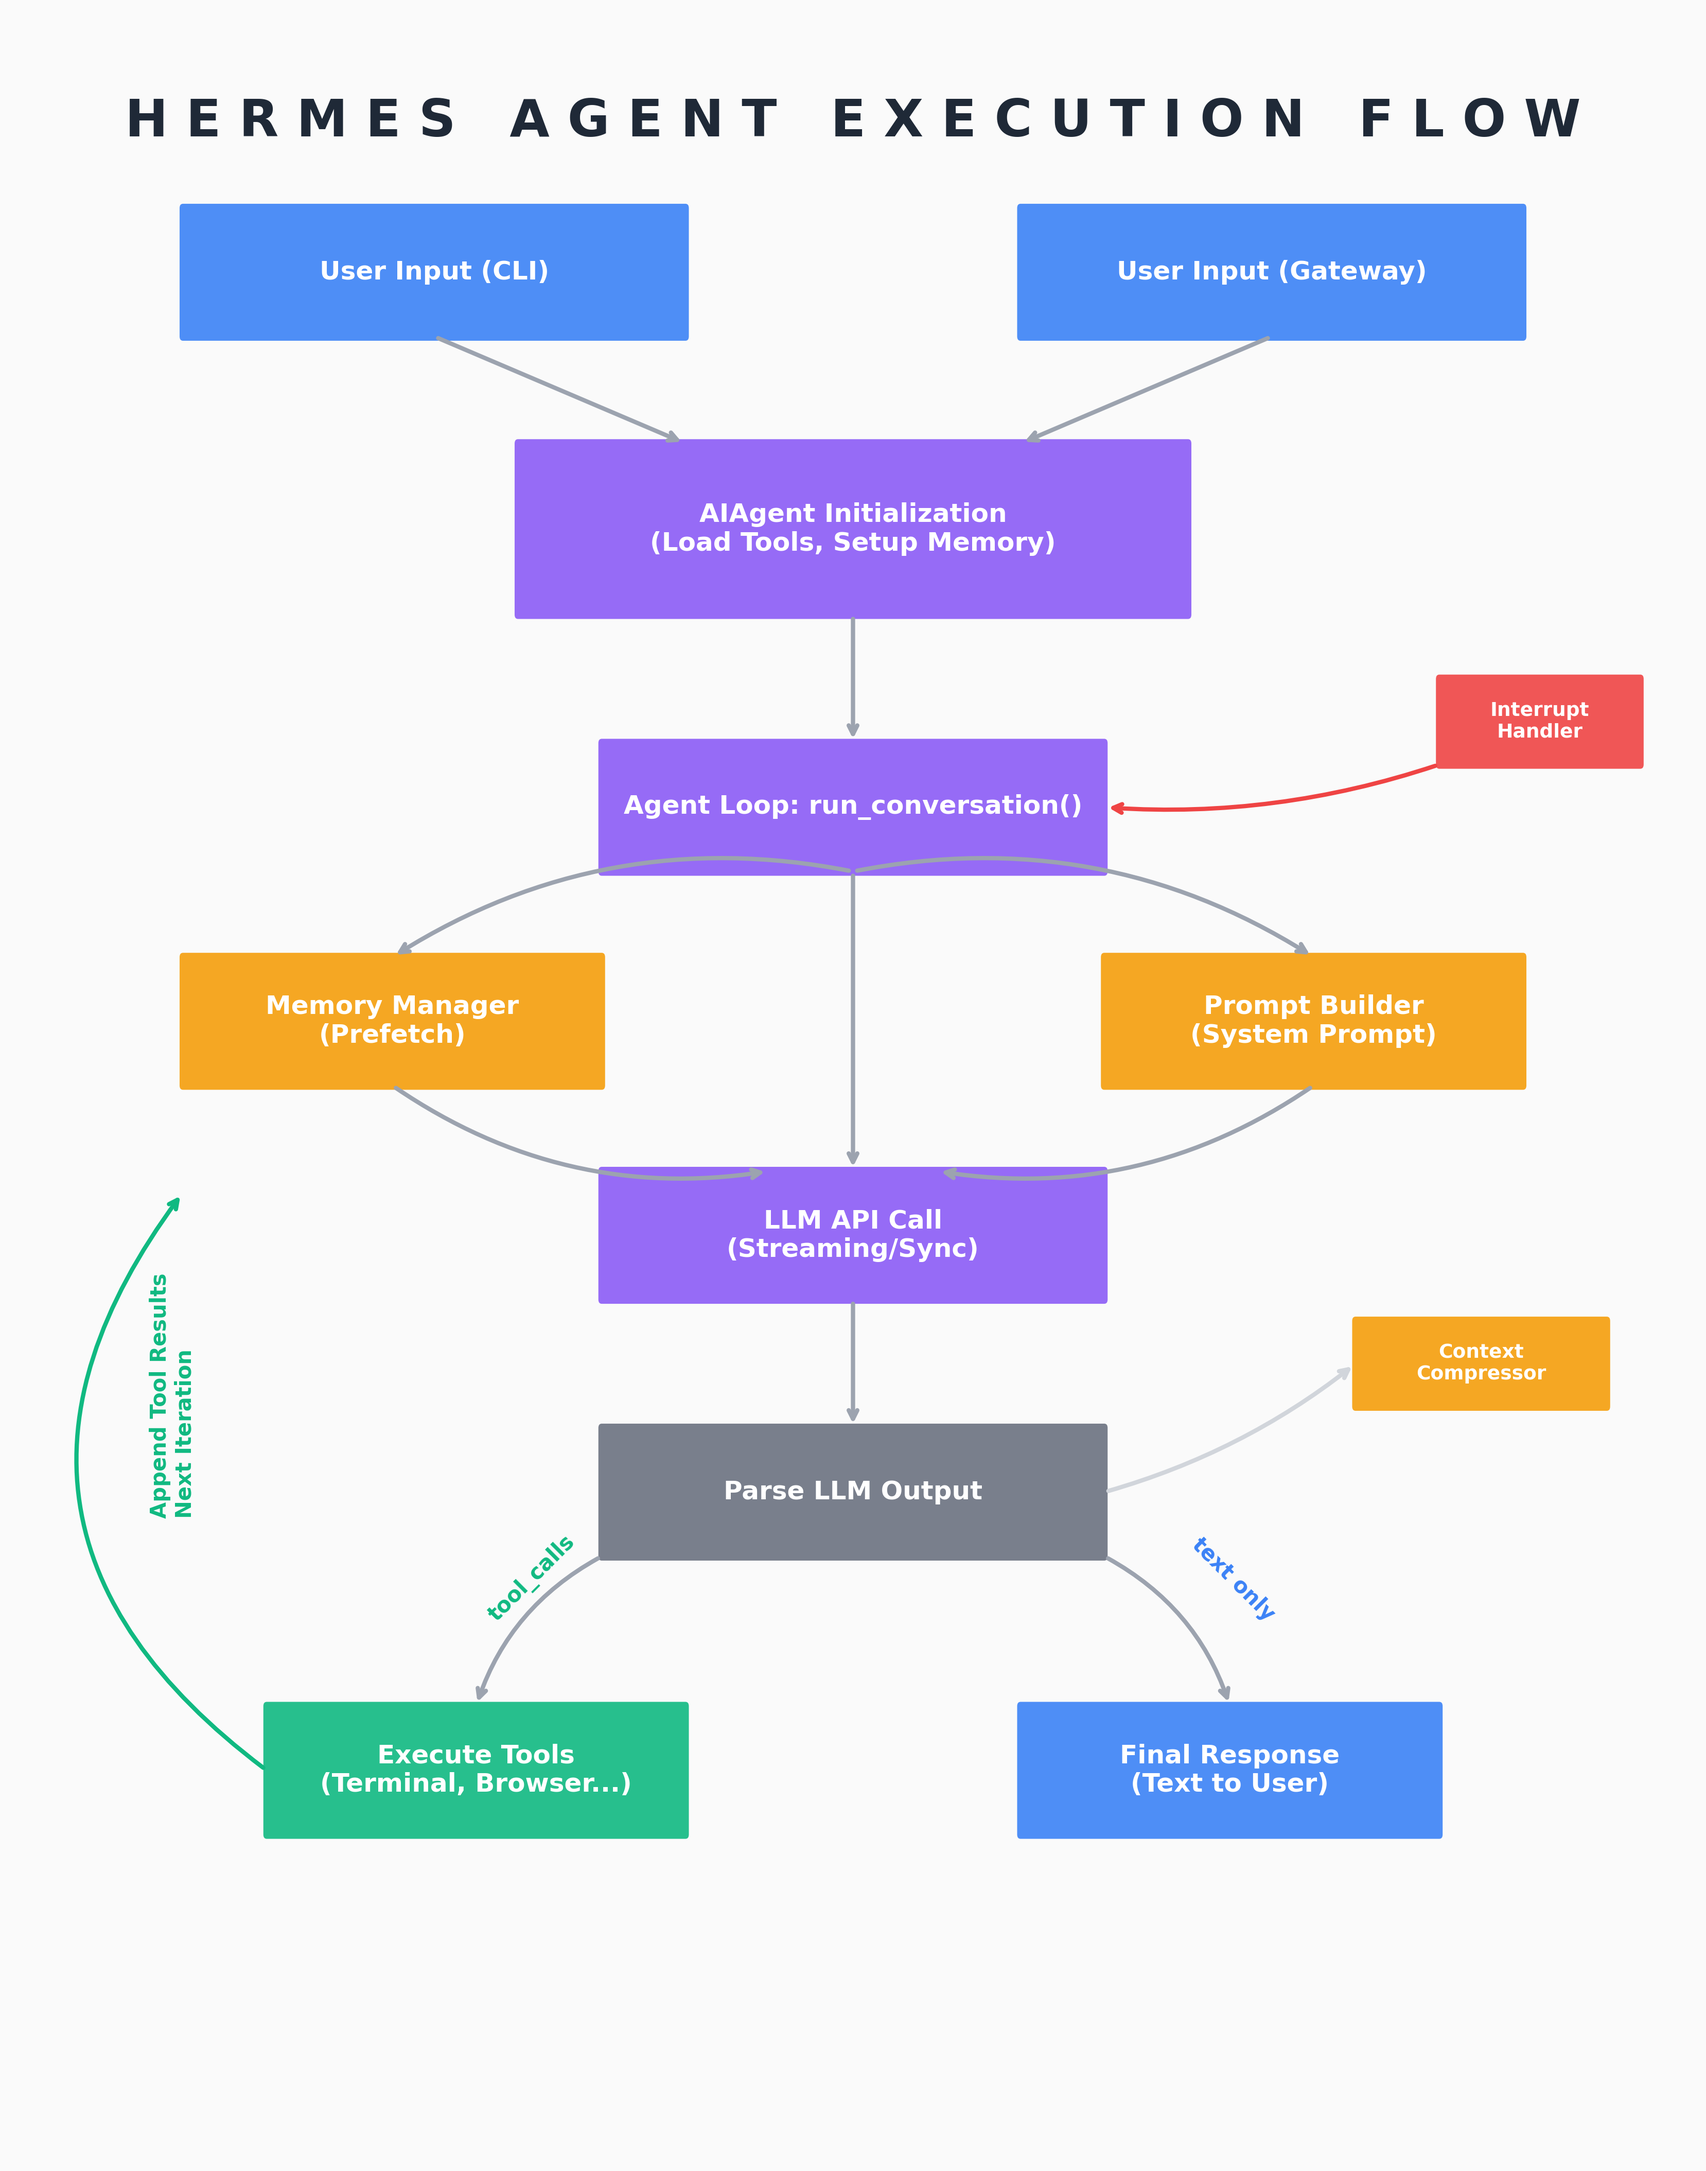
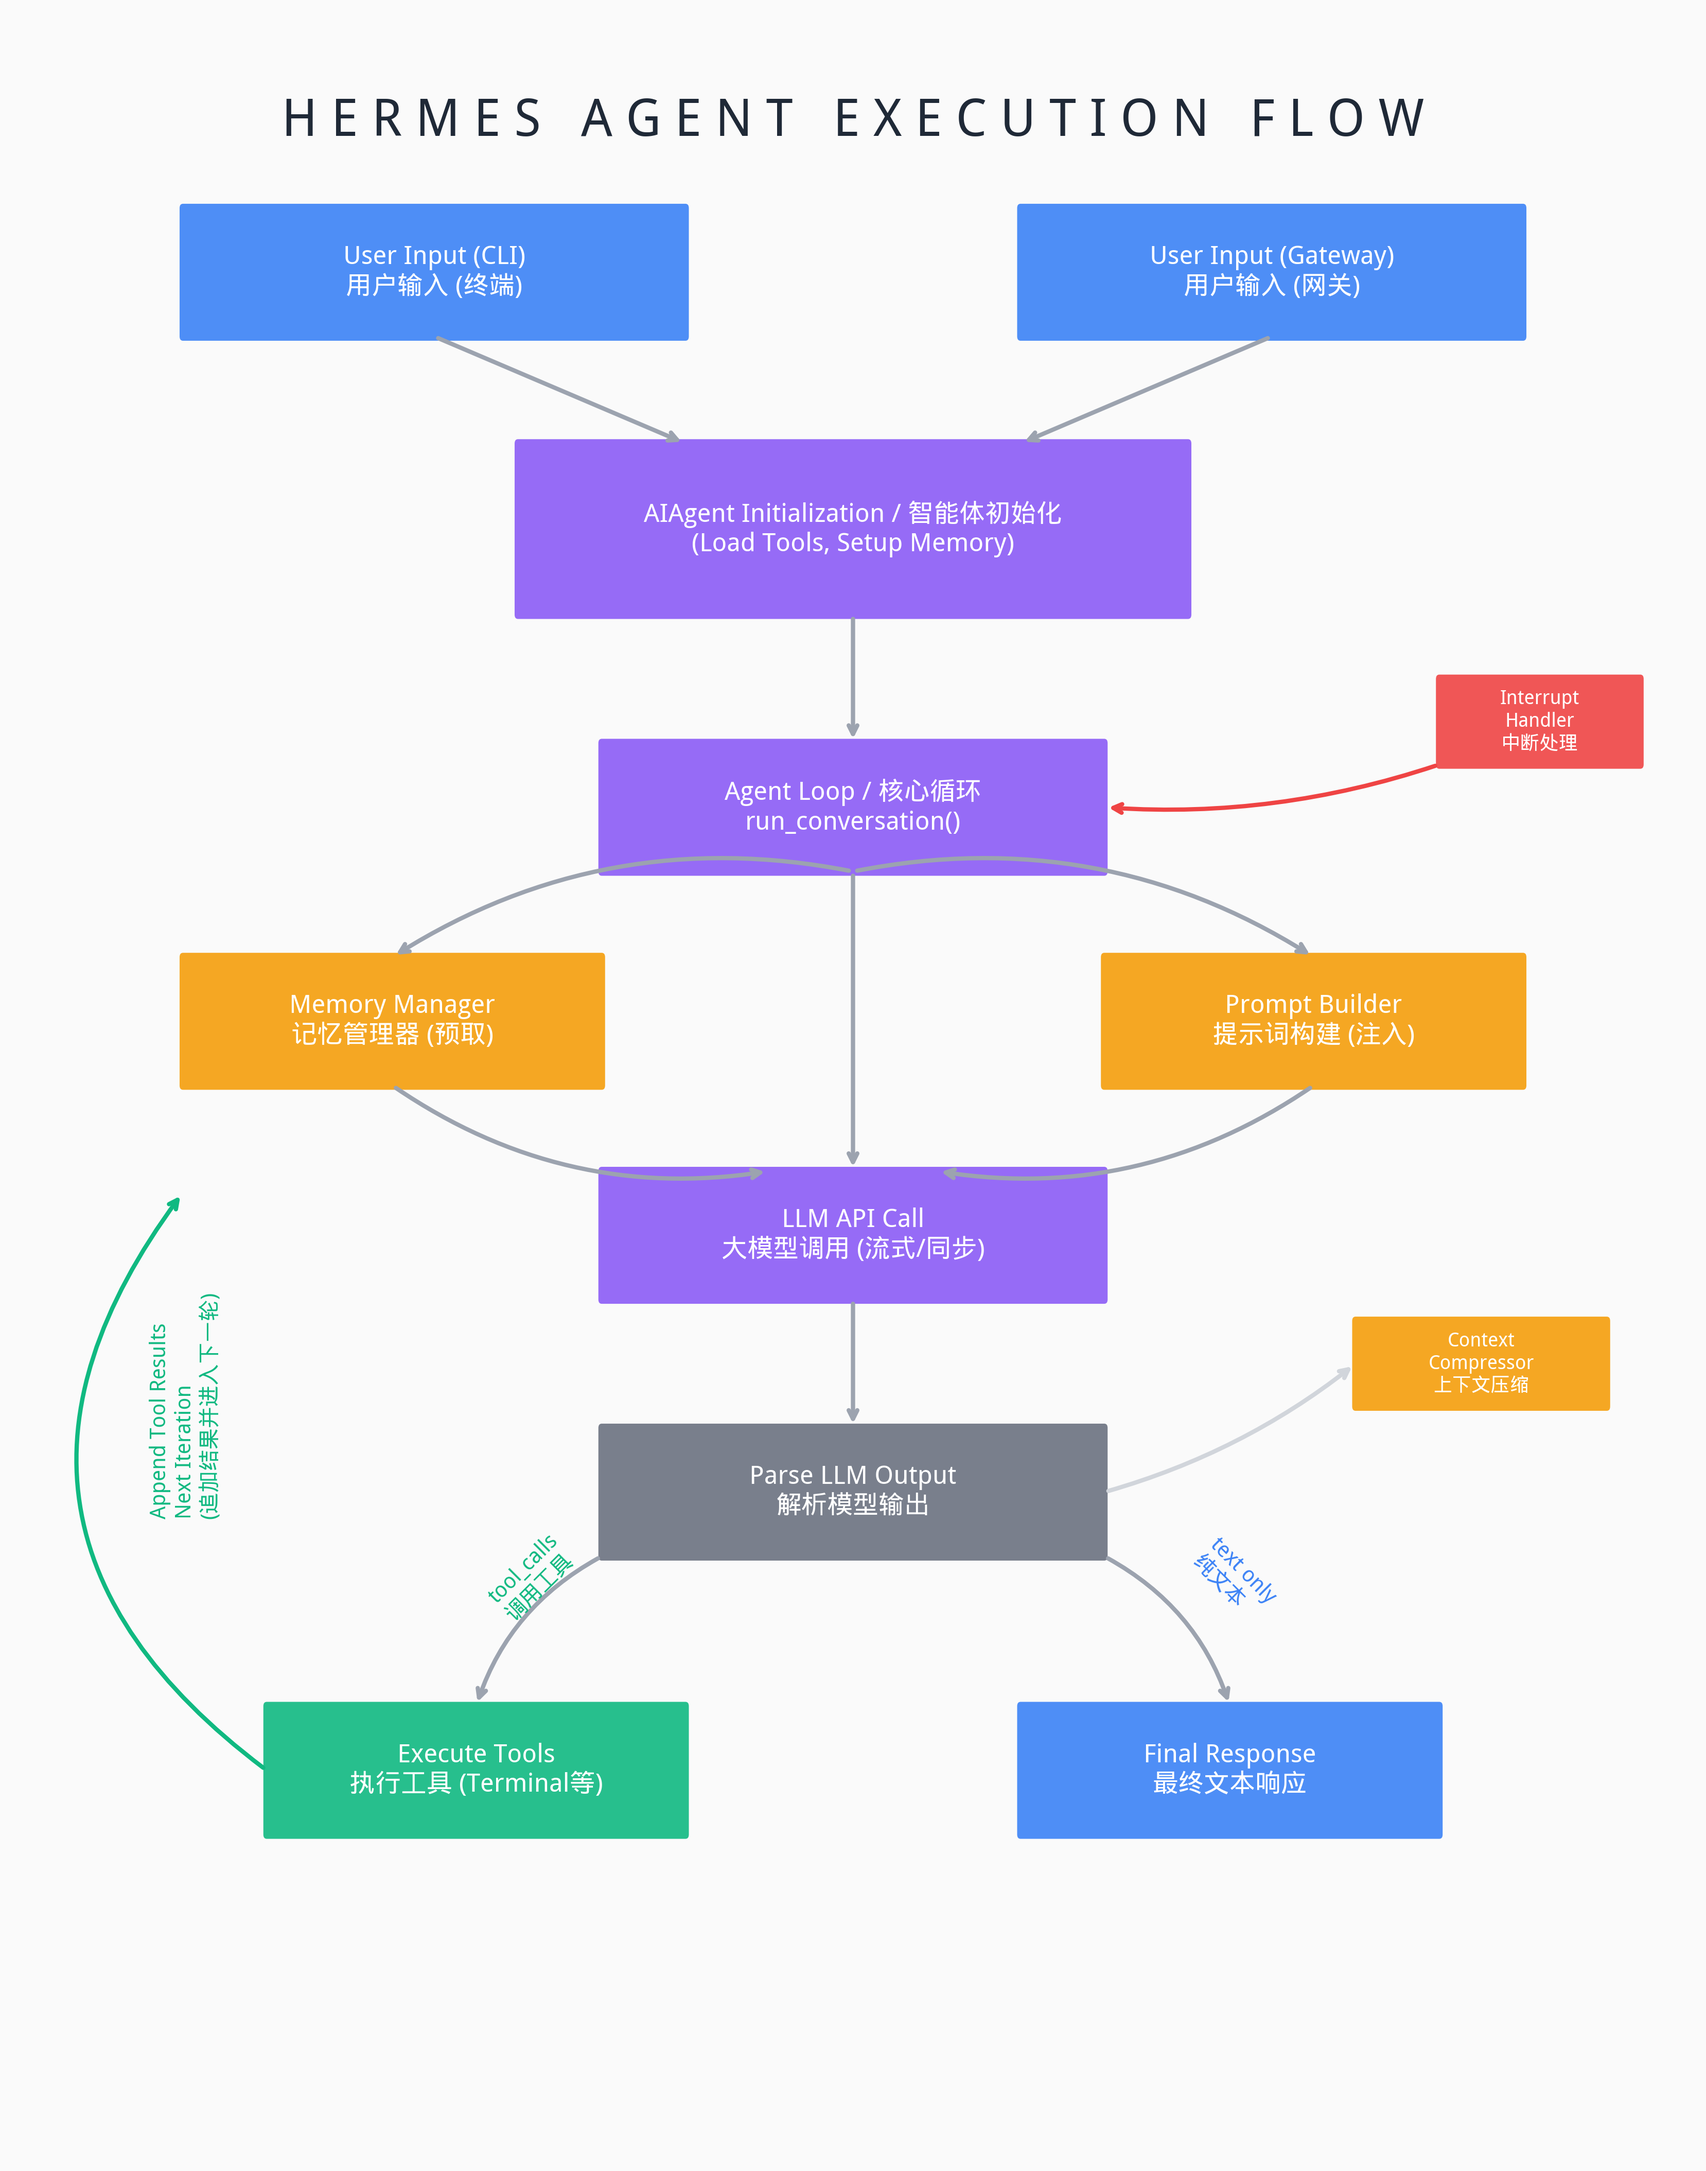
feat: 生成项目Code Wiki文档

diff --git a/draw_diagram.py b/draw_diagram.py
@@ -1,5 +1,10 @@
 import matplotlib.pyplot as plt
 import matplotlib.patches as mpatches
+import matplotlib.font_manager as fm
+
+# Use a standard fallback font that supports Chinese in most environments
+plt.rcParams['font.sans-serif'] = ['WenQuanYi Micro Hei', 'WenQuanYi Zen Hei', 'SimHei', 'Noto Sans CJK SC', 'sans-serif']
+plt.rcParams['axes.unicode_minus'] = False
 
 def draw_diagram():
     fig, ax = plt.subplots(figsize=(14, 18), facecolor='#FAFAFA')
@@ -22,7 +27,7 @@ def draw_diagram():
         ax.add_patch(box)
         ax.text(x + w/2, y + h/2, text, ha='center', va='center',
                 color=text_color, fontsize=font_size, fontweight='bold',
-                fontfamily='sans-serif', fontstyle=style)
+                fontstyle=style)
 
     # Helper function for arrows
     def add_arrow(x1, y1, x2, y2, color='#9CA3AF', rad=0.0):
@@ -35,54 +40,54 @@ def draw_diagram():
             fontsize=24, fontweight='900', color=c_text)
 
     # 1. User Input Layer
-    add_box(10, 85, 30, 6, "User Input (CLI)", c_user)
-    add_box(60, 85, 30, 6, "User Input (Gateway)", c_user)
+    add_box(10, 85, 30, 6, "User Input (CLI)\n用户输入 (终端)", c_user)
+    add_box(60, 85, 30, 6, "User Input (Gateway)\n用户输入 (网关)", c_user)
     
     # 2. Agent Initialization
-    add_box(30, 72, 40, 8, "AIAgent Initialization\n(Load Tools, Setup Memory)", c_agent)
+    add_box(30, 72, 40, 8, "AIAgent Initialization / 智能体初始化\n(Load Tools, Setup Memory)", c_agent)
     add_arrow(25, 85, 40, 80)
     add_arrow(75, 85, 60, 80)
 
     # 3. Agent Loop Start
-    add_box(35, 60, 30, 6, "Agent Loop: run_conversation()", c_agent)
+    add_box(35, 60, 30, 6, "Agent Loop / 核心循环\nrun_conversation()", c_agent)
     add_arrow(50, 72, 50, 66)
 
     # 4. Context & Memory
-    add_box(10, 50, 25, 6, "Memory Manager\n(Prefetch)", c_mem)
-    add_box(65, 50, 25, 6, "Prompt Builder\n(System Prompt)", c_mem)
+    add_box(10, 50, 25, 6, "Memory Manager\n记忆管理器 (预取)", c_mem)
+    add_box(65, 50, 25, 6, "Prompt Builder\n提示词构建 (注入)", c_mem)
     add_arrow(50, 60, 22.5, 56, rad=0.2)
     add_arrow(50, 60, 77.5, 56, rad=-0.2)
     add_arrow(22.5, 50, 45, 46, rad=0.2)
     add_arrow(77.5, 50, 55, 46, rad=-0.2)
 
     # 5. LLM Call
-    add_box(35, 40, 30, 6, "LLM API Call\n(Streaming/Sync)", c_agent)
+    add_box(35, 40, 30, 6, "LLM API Call\n大模型调用 (流式/同步)", c_agent)
     add_arrow(50, 60, 50, 46)
 
     # 6. Decision Split
-    add_box(35, 28, 30, 6, "Parse LLM Output", '#6B7280')
+    add_box(35, 28, 30, 6, "Parse LLM Output\n解析模型输出", '#6B7280')
     add_arrow(50, 40, 50, 34)
 
     # 7. Tool Execution Branch
-    add_box(15, 15, 25, 6, "Execute Tools\n(Terminal, Browser...)", c_tool)
+    add_box(15, 15, 25, 6, "Execute Tools\n执行工具 (Terminal等)", c_tool)
     add_arrow(35, 28, 27.5, 21, rad=0.2)
-    ax.text(28, 25, "tool_calls", color=c_tool, fontweight='bold', rotation=45)
+    ax.text(28, 25, "tool_calls\n调用工具", color=c_tool, fontweight='bold', rotation=45)
     
     # Loop back from tools
     add_arrow(15, 18, 10, 45, rad=-0.5, color=c_tool)
-    ax.text(8, 30, "Append Tool Results\nNext Iteration", rotation=90, color=c_tool, fontsize=10, fontweight='bold')
+    ax.text(8, 30, "Append Tool Results\nNext Iteration\n(追加结果并进入下一轮)", rotation=90, color=c_tool, fontsize=10, fontweight='bold')
 
     # 8. Final Response Branch
-    add_box(60, 15, 25, 6, "Final Response\n(Text to User)", c_user)
+    add_box(60, 15, 25, 6, "Final Response\n最终文本响应", c_user)
     add_arrow(65, 28, 72.5, 21, rad=-0.2)
-    ax.text(70, 25, "text only", color=c_user, fontweight='bold', rotation=-45)
+    ax.text(70, 25, "text only\n纯文本", color=c_user, fontweight='bold', rotation=-45)
 
     # Context Compressor (Side note)
-    add_box(80, 35, 15, 4, "Context\nCompressor", c_mem, font_size=9)
+    add_box(80, 35, 15, 4, "Context\nCompressor\n上下文压缩", c_mem, font_size=9)
     add_arrow(65, 31, 80, 37, rad=0.1, color='#D1D5DB')
     
     # Interrupt mechanism
-    add_box(85, 65, 12, 4, "Interrupt\nHandler", '#EF4444', font_size=9)
+    add_box(85, 65, 12, 4, "Interrupt\nHandler\n中断处理", '#EF4444', font_size=9)
     add_arrow(85, 65, 65, 63, color='#EF4444', rad=-0.1)
 
     # Save
